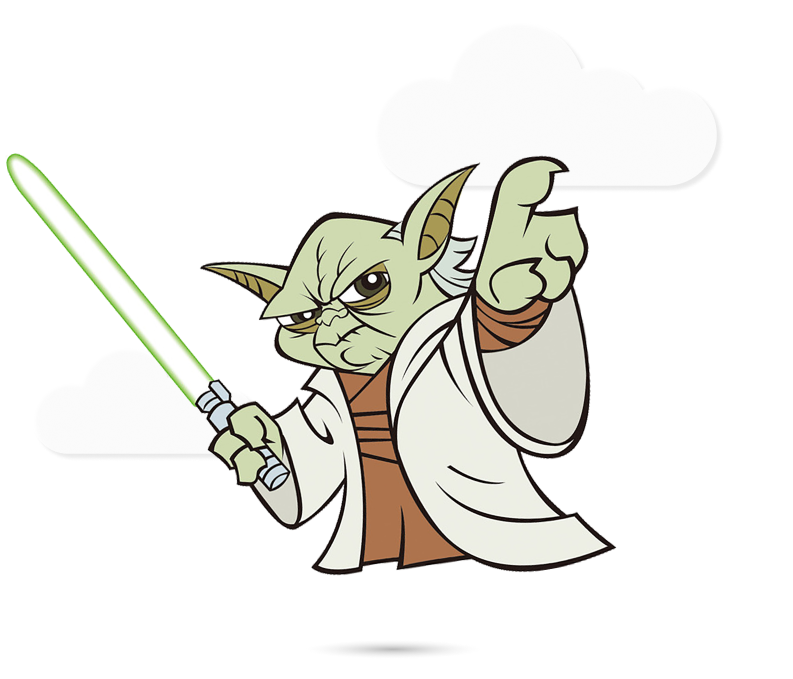
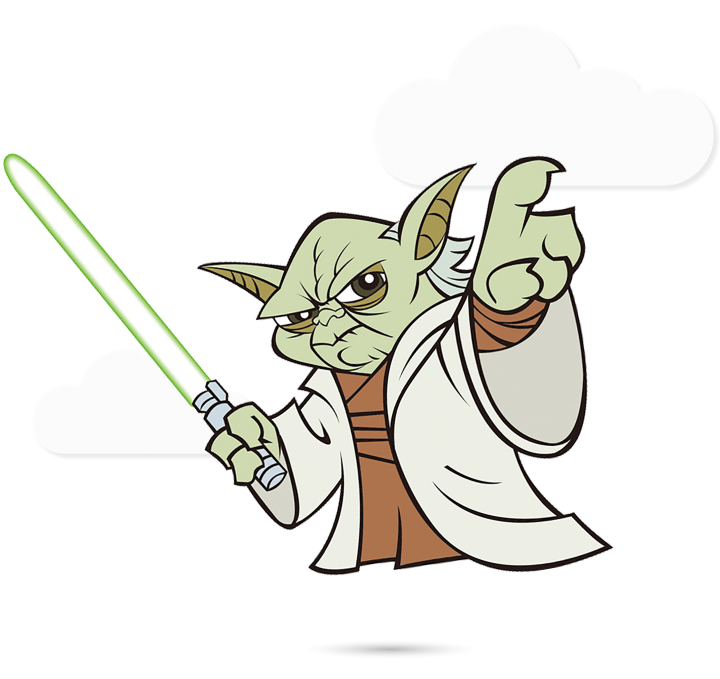
feat: home page content, button component, text component

Changed region(s): [[0.0, 0.2165, 0.8556, 0.866], [0.55, 0.9278, 0.5806, 0.9588], [0.4583, 0.9278, 0.4889, 0.9588]]

diff --git a/src/components/micro/microStyled.ts b/src/components/micro/microStyled.ts
@@ -8,7 +8,7 @@ export const BetweenCenter = styled.div`
 `
 
 export const Content = styled(BetweenCenter)`
-  width: 80%;
+  width: 75%;
 `
 export const Logo = styled.div`
   width: 150px;
@@ -18,9 +18,14 @@ export const Logo = styled.div`
   background-size: cover;
   background-repeat: no-repeat;
 `
+export const YodaBox = styled.img`
+  width: 50%;
+  max-height: 100%;
+`
+
 export const NavBox = styled(BetweenCenter)`
   height: 54px;
-  width:25%;
+  width: 25%;
 `
 export const NavButton = styled(NavLink)`
   box-sizing: border-box;
@@ -32,8 +37,44 @@ export const NavButton = styled(NavLink)`
   color: #F6F7F9;
   text-align: center;
   text-decoration: none;
-  
+
   &.active {
     border-bottom: 3px solid #F6F7F9;
   }
+`
+
+interface TextProps {
+  size: number
+  fontFamily: string
+  color: string
+  lineHeight: number
+}
+
+export const Text = styled.div<TextProps>`
+  font-size: ${(props) => props.size}px;
+  font-family: ${(props) => props.fontFamily}, sans-serif;
+  color: ${(props) => props.color};
+  line-height: ${(props) => props.lineHeight}px;
+`
+
+interface ButtonProps {
+  background: string
+}
+
+export const Button = styled(NavLink)<ButtonProps>`
+  display: flex;
+  align-items: center;
+  justify-content: center;
+  width: 231px;
+  height: 66px;
+  border: none;
+  border-radius: 11px;
+  font-size: 23px;
+  line-height: 27px;
+  font-family: Nekst-Black, sans-serif;
+  color: #212121;
+  box-shadow: inset 0px -9px 0px rgba(0, 0, 0, 0.18);
+  background: ${(props)=>props.background};
+  cursor: pointer;
+  text-decoration: none;
 `

diff --git a/src/components/macro/HomeDescription.tsx b/src/components/macro/HomeDescription.tsx
@@ -1,0 +1,28 @@
+import { FC } from 'react'
+import styled from 'styled-components'
+import { Button, Text } from '../micro/microStyled'
+
+const DescriptionWrap = styled.div`
+  display: flex;
+  flex-direction: column;
+  justify-content: center;
+  align-items: start;
+  gap: 64px;
+  width: 40%;
+`
+
+export const HomeDescription: FC = () => {
+  return (
+    <DescriptionWrap>
+      <Text size={72}
+            fontFamily={'Nekst-Black'}
+            color={'#FFFFFF'}
+            lineHeight={84}>Find all your favorite character</Text>
+      <Text size={32}
+            fontFamily={'Gilroy-Regular'}
+            color={'#FFFFFF'}
+            lineHeight={37}>You can find out all the information about your favorite characters</Text>
+      <Button to={'/characters'} background={' #FFC107'}>See more...</Button>
+    </DescriptionWrap>
+  )
+}

diff --git a/src/components/pages/Home.tsx b/src/components/pages/Home.tsx
@@ -1,6 +1,8 @@
 import { FC } from 'react'
 import styled from 'styled-components'
-import { Content } from '../micro/microStyled'
+import { Content, YodaBox } from '../micro/microStyled'
+import { HomeDescription } from '../macro/HomeDescription'
+import yodaImage from '../../assets/images/BannerComplete.png'
 
 const HomeWrap = styled.div`
   box-sizing: border-box;
@@ -16,9 +18,8 @@ export const Home: FC = () => {
   return (
     <HomeWrap>
       <Content>
-        <h1>
-          Home Page
-        </h1>
+        <HomeDescription />
+        <YodaBox src={yodaImage} alt={'yoda'}/>
       </Content>
     </HomeWrap>
   )
